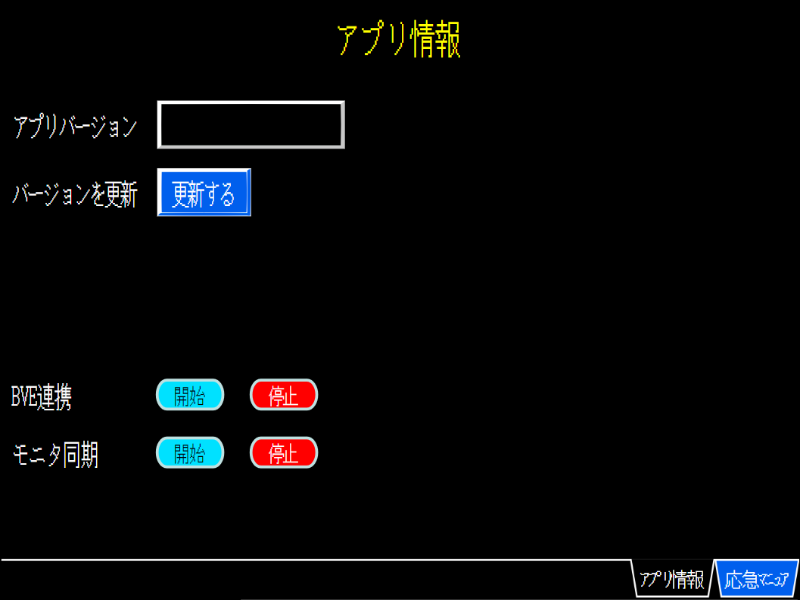
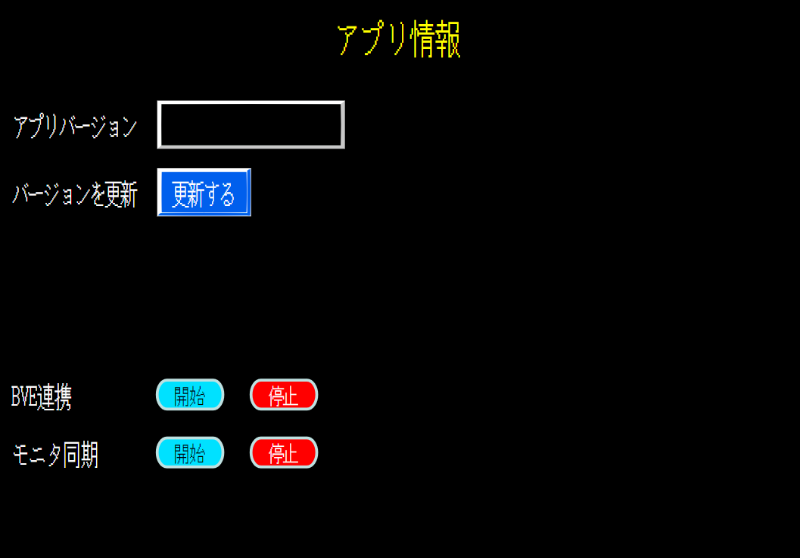
FooterButtonをプログラムで表示制御するように

diff --git a/TR.caMonPageMod.JRCMon/Footer/FooterArea.cs b/TR.caMonPageMod.JRCMon/Footer/FooterArea.cs
@@ -1,0 +1,166 @@
+using System.Windows;
+using System.Windows.Controls;
+using System.Windows.Media;
+using System.Windows.Shapes;
+
+namespace TR.caMonPageMod.JRCMon.Footer;
+
+public class FooterArea : Canvas
+{
+	private int currentPageIndex = 0;
+	private int maxPageIndex = 0;
+	public event EventHandler<int>? PageChanged;
+
+	private const int FOOTER_AREA_TOP = 1;
+
+	private readonly (Image, Button)? goNextPageButton;
+	private readonly (Image, Button)? goPrevPageButton0;
+	private readonly (Image, Button)? goPrevPageButton1;
+
+	public FooterArea(
+		RootGrid rootGrid,
+		IReadOnlyList<FooterInfo> footerInfoList,
+		Type pageType
+	)
+	{
+		Height = Constants.FOOTER_HEIGHT;
+		Width = Constants.DISPLAY_WIDTH;
+
+		Children.Add(new Line
+		{
+			X1 = 0,
+			Y1 = FOOTER_AREA_TOP + (Constants.FOOTER_LINE_HEIGHT / 2),
+			X2 = Constants.DISPLAY_WIDTH,
+			Y2 = FOOTER_AREA_TOP + (Constants.FOOTER_LINE_HEIGHT / 2),
+			Stroke = Brushes.White,
+			StrokeThickness = Constants.FOOTER_LINE_HEIGHT,
+			HorizontalAlignment = HorizontalAlignment.Left,
+			VerticalAlignment = VerticalAlignment.Top
+		});
+		foreach (var (info, index) in footerInfoList.Where(v => v.IsLeftAligned).Select((f, i) => (f, i)))
+		{
+			bool isSelected = info.IsForceSelected || pageType.Equals(info.PageClass) || pageType.IsSubclassOf(info.PageClass);
+			(_, Button btn) = AddButton(true, info.Label, isSelected, index);
+			btn.Click += (s, e) => rootGrid.SetPageType(info.PageClass);
+		}
+		foreach (var (info, index) in footerInfoList.Where(v => !v.IsLeftAligned).Reverse().Select((f, i) => (f, i)))
+		{
+			bool isSelected = info.IsForceSelected || pageType.Equals(info.PageClass) || pageType.IsSubclassOf(info.PageClass);
+			(_, Button btn) = AddButton(false, info.Label, isSelected, index);
+			btn.Click += (s, e) => rootGrid.SetPageType(info.PageClass);
+		}
+
+		if (maxPageIndex > 0)
+		{
+			goNextPageButton = AddButton(true, "次画面", false, 0);
+			goNextPageButton.Value.Item2.Click += (s, e) => SetPageIndex(currentPageIndex + 1);
+
+			goPrevPageButton0 = AddButton(true, "前画面", false, 0, false);
+			goPrevPageButton0.Value.Item2.Click += (s, e) => SetPageIndex(currentPageIndex - 1);
+			goPrevPageButton1 = AddButton(true, "前画面", false, 1, false);
+			goPrevPageButton1.Value.Item2.Click += (s, e) => SetPageIndex(currentPageIndex - 1);
+		}
+	}
+
+	public FooterArea(
+		RootGrid rootGrid,
+		IReadOnlyList<FooterInfo> footerInfoList,
+		Type pageType,
+		int maxPageIndex
+	) : this(rootGrid, footerInfoList, pageType)
+	{
+		this.maxPageIndex = maxPageIndex;
+	}
+
+	private (Image, Button) AddButton(
+		bool isLeftAligned,
+		string labelStr,
+		bool isSelected,
+		int index,
+		bool addToChildren = true
+	) {
+		double imgX = (Constants.FOOTER_MENU_BUTTON_IMG_WIDTH + Constants.FOOTER_MENU_BUTTON_IMG_SPACING) * index;
+		double imgXR = Constants.DISPLAY_WIDTH - Constants.FOOTER_MENU_BUTTON_IMG_WIDTH - imgX;
+		Image btnImg = ResourceManager.GetResourceAsImage(
+			isSelected ? ResourceManager.ResourceFiles.FooterSW_ON : ResourceManager.ResourceFiles.FooterSW_OFF
+		);
+		btnImg.Margin = new Thickness(
+			isLeftAligned ? imgX : imgXR,
+			FOOTER_AREA_TOP,
+			isLeftAligned ? imgXR : imgX,
+			0
+		);
+		btnImg.Height = Constants.FOOTER_MENU_BUTTON_IMG_HEIGHT;
+		btnImg.Width = Constants.FOOTER_MENU_BUTTON_IMG_WIDTH;
+		if (addToChildren)
+		{
+			Children.Add(btnImg);
+		}
+
+		double btnX = imgX + (Constants.FOOTER_MENU_BUTTON_IMG_WIDTH - Constants.FOOTER_MENU_BUTTON_WIDTH) / 2;
+		double btnXR = imgXR + (Constants.FOOTER_MENU_BUTTON_IMG_WIDTH - Constants.FOOTER_MENU_BUTTON_WIDTH) / 2;
+		Button btn = ComponentFactory.GetEmptyButton(
+			new Thickness(
+				isLeftAligned ? btnX : btnXR,
+				FOOTER_AREA_TOP + Constants.FOOTER_LINE_HEIGHT,
+				isLeftAligned ? btnXR : btnX,
+				0
+			),
+			Constants.FOOTER_MENU_BUTTON_WIDTH,
+			Constants.FOOTER_MENU_BUTTON_HEIGHT
+		);
+
+		Label label = ComponentFactory.GetBasicLabel();
+		label.HorizontalContentAlignment = HorizontalAlignment.Center;
+		label.VerticalContentAlignment = VerticalAlignment.Center;
+		label.Height = Constants.FOOTER_MENU_BUTTON_HEIGHT;
+		label.Width = Constants.FOOTER_MENU_BUTTON_WIDTH;
+		label.FontSize = Constants.FONT_SIZE_FOOTER;
+		label.Content = labelStr;
+		btn.Content = label;
+
+		if (addToChildren)
+		{
+			Children.Add(btn);
+		}
+
+		return (btnImg, btn);
+	}
+
+	public void SetPageIndex(int index)
+	{
+		if (index < 0 || maxPageIndex < index)
+			return;
+		currentPageIndex = index;
+		PageChanged?.Invoke(this, currentPageIndex);
+
+		if (goNextPageButton is null || goPrevPageButton0 is null || goPrevPageButton1 is null)
+			return;
+
+		Children.Remove(goPrevPageButton0.Value.Item1);
+		Children.Remove(goPrevPageButton0.Value.Item2);
+		Children.Remove(goPrevPageButton1.Value.Item1);
+		Children.Remove(goPrevPageButton1.Value.Item2);
+		Children.Remove(goNextPageButton.Value.Item1);
+		Children.Remove(goNextPageButton.Value.Item2);
+
+		if (currentPageIndex != maxPageIndex)
+		{
+			Children.Add(goNextPageButton.Value.Item1);
+			Children.Add(goNextPageButton.Value.Item2);
+		}
+		if (currentPageIndex != 0)
+		{
+			if (currentPageIndex == maxPageIndex)
+			{
+				Children.Add(goPrevPageButton0.Value.Item1);
+				Children.Add(goPrevPageButton0.Value.Item2);
+			}
+			else
+			{
+				Children.Add(goPrevPageButton1.Value.Item1);
+				Children.Add(goPrevPageButton1.Value.Item2);
+			}
+		}
+	}
+}

diff --git a/TR.caMonPageMod.JRCMon/RootGrid.cs b/TR.caMonPageMod.JRCMon/RootGrid.cs
@@ -3,6 +3,7 @@ using System.Windows;
 using System.Windows.Controls;
 using System.Windows.Media;
 
+using TR.caMonPageMod.JRCMon.Footer;
 using TR.caMonPageMod.JRCMon.Header;
 using TR.caMonPageMod.JRCMon.PageTypes;
 
@@ -22,6 +23,7 @@ public class RootGrid : Grid
 
 		RowDefinitions.Add(new RowDefinition { Height = new GridLength(Constants.HEADER_HEIGHT) });
 		RowDefinitions.Add(new RowDefinition { Height = new GridLength(1, GridUnitType.Star) });
+		RowDefinitions.Add(new RowDefinition { Height = new GridLength(Constants.FOOTER_HEIGHT) });
 
 		SetPageType<Pages.SystemControl.MenuPage>();
 	}
@@ -33,17 +35,51 @@ public class RootGrid : Grid
 		{
 			Width = Constants.DISPLAY_WIDTH,
 		};
+		bool hasFooter = false;
+		if (cc is IFooterInfo footerInfo)
+		{
+			hasFooter = true;
+			FooterArea footerArea;
+			if (cc is IMultiPageFooterInfo multiPageFooterInfo)
+			{
+				footerArea = new(
+					this,
+					footerInfo.FooterInfoList,
+					typeof(T),
+					multiPageFooterInfo.MaxIndex
+				);
+				footerArea.SetPageIndex(multiPageFooterInfo.SelectedIndex);
+				footerArea.PageChanged += (sender, e) =>
+				{
+					multiPageFooterInfo.SelectedIndex = e;
+				};
+			}
+			else
+			{
+				footerArea = new(
+					this,
+					footerInfo.FooterInfoList,
+					typeof(T)
+				);
+			}
+			SetRow(footerArea, 2);
+			Children.Add(footerArea);
+		}
 		if (typeof(T).GetCustomAttribute<FullScreenPageAttribute>() is not null)
 		{
-			SetRowSpan(cc, 2);
-			cc.Height = Constants.DISPLAY_HEIGHT;
+			SetRowSpan(cc, hasFooter ? 2 : 3);
+			cc.Height = Constants.DISPLAY_HEIGHT - (hasFooter ? Constants.FOOTER_HEIGHT : 0);
 			Children.Add(cc);
 		}
 		else if (typeof(T).GetCustomAttribute<NormalPageAttribute>() is NormalPageAttribute pageAttribute)
 		{
 			SetRow(HeaderArea, 0);
 			SetRow(cc, 1);
-			cc.Height = Constants.BODY_HEIGHT;
+			if (!hasFooter)
+			{
+				SetRowSpan(cc, 2);
+			}
+			cc.Height = Constants.BODY_HEIGHT - (hasFooter ? Constants.FOOTER_HEIGHT : 0);
 			Children.Add(HeaderArea);
 			Children.Add(cc);
 			HeaderArea.OnChangePage(pageAttribute);
@@ -57,6 +93,16 @@ public class RootGrid : Grid
 		{
 			page.RootGrid = this;
 		}
+		if (hasFooter && cc is IBaseImage baseImagePage)
+		{
+			baseImagePage.BaseImage.Height -= Constants.FOOTER_HEIGHT;
+		}
+	}
+
+	internal void SetPageType(Type pageType)
+	{
+		MethodInfo method = typeof(RootGrid).GetMethod(nameof(SetPageType))!;
+		method.MakeGenericMethod(pageType).Invoke(this, null);
 	}
 
 	public void BackToHomeInvoke() => BackToHome?.Invoke(this, EventArgs.Empty);

diff --git a/TR.caMonPageMod.JRCMon/Pages/SystemControl/AppInfoPage.cs b/TR.caMonPageMod.JRCMon/Pages/SystemControl/AppInfoPage.cs
@@ -1,14 +1,17 @@
 using System.Windows.Controls;
 
+using TR.caMonPageMod.JRCMon.Footer;
+
 namespace TR.caMonPageMod.JRCMon.Pages.SystemControl;
 
 [PageTypes.FullScreenPage]
-public partial class AppInfoPage : FullScreenPageBase, IHoldRootGridInstance
+public partial class AppInfoPage : FullScreenPageBase, IHoldRootGridInstance, IFooterInfo
 {
 	public RootGrid? RootGrid { get; set; }
 
-	readonly Label AppVersionLabel = ComponentFactory.Get1XLongLabel();
-	readonly Button GoToEmbeddedManualButton = ComponentFactory.GetFooterMenuButton(2, true);
+  public IReadOnlyList<FooterInfo> FooterInfoList => FooterType.APP_INFO;
+
+  readonly Label AppVersionLabel = ComponentFactory.Get1XLongLabel();
 
 	public AppInfoPage() : base(ResourceManager.ResourceFiles.AppInfo)
 	{
@@ -18,8 +21,5 @@ public partial class AppInfoPage : FullScreenPageBase, IHoldRootGridInstance
 		AppVersionLabel.HorizontalContentAlignment = System.Windows.HorizontalAlignment.Right;
 		AppVersionLabel.Content = ResourceManager.CurrentAssembly.GetName().Version?.ToString() ?? "Unknown";
 		Children.Add(AppVersionLabel);
-
-		GoToEmbeddedManualButton.Click += (s, e) => RootGrid?.SetPageType<EmbeddedManual>();
-		Children.Add(GoToEmbeddedManualButton);
 	}
 }

diff --git a/TR.caMonPageMod.JRCMon/Constants.cs b/TR.caMonPageMod.JRCMon/Constants.cs
@@ -8,12 +8,18 @@ static internal class Constants
 	public const int DISPLAY_HEIGHT = 600;
 
 	public const int HEADER_HEIGHT = 50;
-	public const int BODY_HEIGHT = DISPLAY_HEIGHT - HEADER_HEIGHT;
+	public const int FOOTER_HEIGHT = 42;
+	public const int BODY_HEIGHT = DISPLAY_HEIGHT - HEADER_HEIGHT - FOOTER_HEIGHT;
 
 	public static readonly FontFamily FONT_FAMILY = new("JF Dot Ayu Mincho 18");
+	public const int FONT_SIZE_FOOTER = 16;
 	public const int FONT_SIZE_1X = 18;
 	public const int FONT_SIZE_2X = 36;
 
+	public const int FOOTER_LINE_HEIGHT = 2;
 	public const int FOOTER_MENU_BUTTON_HEIGHT = 36;
 	public const int FOOTER_MENU_BUTTON_WIDTH = 82;
+	public const int FOOTER_MENU_BUTTON_IMG_HEIGHT = 40;
+	public const int FOOTER_MENU_BUTTON_IMG_WIDTH = 84;
+	public const int FOOTER_MENU_BUTTON_IMG_SPACING = 0;
 }

diff --git a/TR.caMonPageMod.JRCMon/ResourceManager.cs b/TR.caMonPageMod.JRCMon/ResourceManager.cs
@@ -48,6 +48,9 @@ public static class ResourceManager
 		OccupancyRateIcon,
 		OtherSeriesIcon,
 		WorkSettingIcon,
+
+		FooterSW_OFF,
+		FooterSW_ON,
 	}
 
 	public static readonly Assembly CurrentAssembly = Assembly.GetExecutingAssembly();
@@ -95,6 +98,9 @@ public static class ResourceManager
 		[ResourceFiles.OccupancyRateIcon] = ["Header", "PageIcon", "OccupancyRate.png"],
 		[ResourceFiles.OtherSeriesIcon] = ["Header", "PageIcon", "OtherSeries.png"],
 		[ResourceFiles.WorkSettingIcon] = ["Header", "PageIcon", "WorkSetting.png"],
+
+		[ResourceFiles.FooterSW_OFF] = ["Parts", "FooterSW_OFF.png"],
+		[ResourceFiles.FooterSW_ON] = ["Parts", "FooterSW_ON.png"],
 	};
 
 	public static string GetResourcePath(ResourceFiles resourceFile)

diff --git a/TR.caMonPageMod.JRCMon/ComponentFactory.cs b/TR.caMonPageMod.JRCMon/ComponentFactory.cs
@@ -62,6 +62,12 @@ public class ComponentFactory
 #endif
 			border.SetValue(Border.BorderBrushProperty, Brushes.Transparent);
 
+			FrameworkElementFactory contentPresenter = new(typeof(ContentPresenter));
+			contentPresenter.SetValue(ContentPresenter.ContentProperty, new TemplateBindingExtension(Button.ContentProperty));
+			contentPresenter.SetValue(FrameworkElement.HorizontalAlignmentProperty, HorizontalAlignment.Center);
+			contentPresenter.SetValue(FrameworkElement.VerticalAlignmentProperty, VerticalAlignment.Center);
+			border.AppendChild(contentPresenter);
+
 			ControlTemplate template = new(typeof(Button))
 			{
 				VisualTree = border

diff --git a/TR.caMonPageMod.JRCMon/Pages/FullScreenPageBase.cs b/TR.caMonPageMod.JRCMon/Pages/FullScreenPageBase.cs
@@ -2,13 +2,15 @@ using System.Windows.Controls;
 
 namespace TR.caMonPageMod.JRCMon.Pages;
 
-public abstract class FullScreenPageBase : Canvas
+public abstract class FullScreenPageBase : Canvas, IBaseImage
 {
+	public Image BaseImage { get; }
 	public FullScreenPageBase(ResourceManager.ResourceFiles baseImageResource)
 	{
 		Image baseImage = ResourceManager.GetResourceAsImage(baseImageResource);
 		baseImage.Height = Constants.DISPLAY_HEIGHT;
 		baseImage.Width = Constants.DISPLAY_WIDTH;
 		Children.Add(baseImage);
+		BaseImage = baseImage;
 	}
 }

diff --git a/TR.caMonPageMod.JRCMon/Pages/NormalPageBase.cs b/TR.caMonPageMod.JRCMon/Pages/NormalPageBase.cs
@@ -2,13 +2,15 @@ using System.Windows.Controls;
 
 namespace TR.caMonPageMod.JRCMon.Pages;
 
-public abstract class NormalPageBase : Canvas
+public abstract class NormalPageBase : Canvas, IBaseImage
 {
+	public Image BaseImage { get; }
 	public NormalPageBase(ResourceManager.ResourceFiles baseImageResource)
 	{
 		Image baseImage = ResourceManager.GetResourceAsImage(baseImageResource);
 		baseImage.Height = Constants.BODY_HEIGHT;
 		baseImage.Width = Constants.DISPLAY_WIDTH;
 		Children.Add(baseImage);
+		BaseImage = baseImage;
 	}
 }

diff --git a/TR.caMonPageMod.JRCMon/Footer/IHooterInfo.cs b/TR.caMonPageMod.JRCMon/Footer/IHooterInfo.cs
@@ -1,0 +1,15 @@
+namespace TR.caMonPageMod.JRCMon.Footer;
+
+public interface IFooterInfo
+{
+	IReadOnlyList<FooterInfo> FooterInfoList { get; }
+}
+
+public interface IMultiPageFooterInfo : IFooterInfo
+{
+	/// <summary>
+	/// 選択中のページインデックス (0から始まる)
+	/// </summary>
+	int SelectedIndex { get; set; }
+	int MaxIndex { get; }
+}

diff --git a/TR.caMonPageMod.JRCMon/IBaseImage.cs b/TR.caMonPageMod.JRCMon/IBaseImage.cs
@@ -1,0 +1,8 @@
+using System.Windows.Controls;
+
+namespace TR.caMonPageMod.JRCMon;
+
+interface IBaseImage
+{
+	Image BaseImage { get; }
+}
